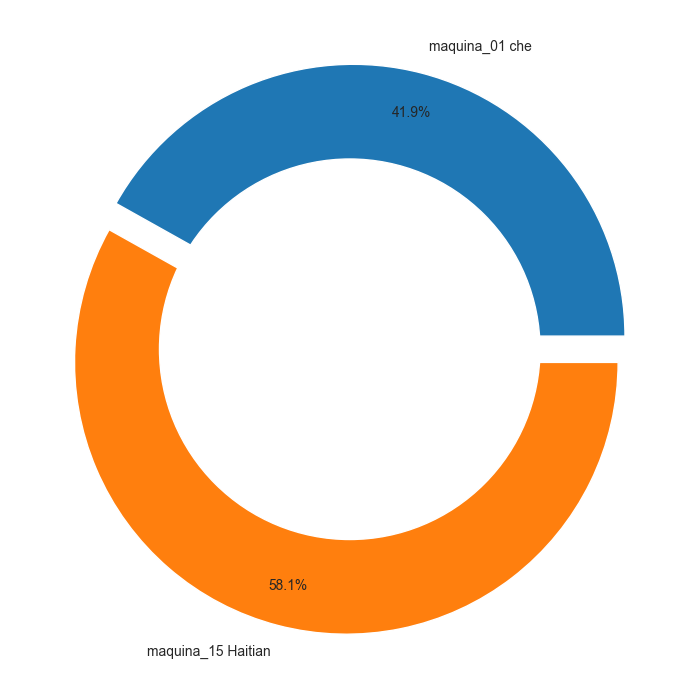
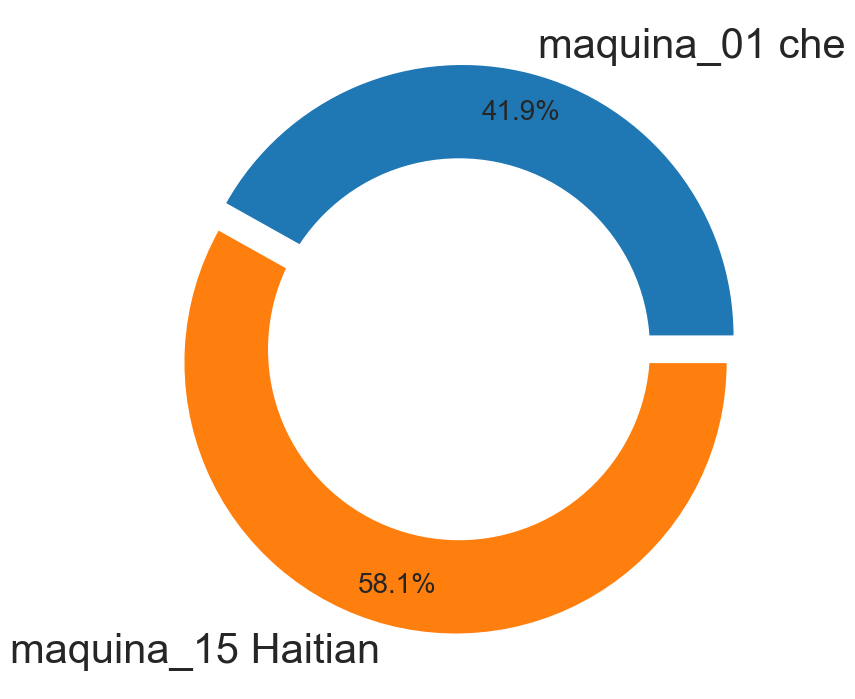
fix pie

diff --git a/functions/aux_plot.py b/functions/aux_plot.py
@@ -28,10 +28,15 @@ def plot(df_defeitos, title_list):
     
     fig = plt.figure(figsize=(16, 9))
     
-    plt.pie(a['VALOR'].values, labels=list(a.index),
+    patches, texts, autotexts = plt.pie(a['VALOR'].values, labels=list(a.index),
             autopct='%1.1f%%', pctdistance=0.85,
             explode=explode)
+    for text in texts:
+        text.set_fontsize(30)
     
+    for text in autotexts:
+        text.set_fontsize(20)
+        
     centre_circle = plt.Circle((0, 0), 0.70, fc='white')
     fig = plt.gcf()
     fig.gca().add_artist(centre_circle)
